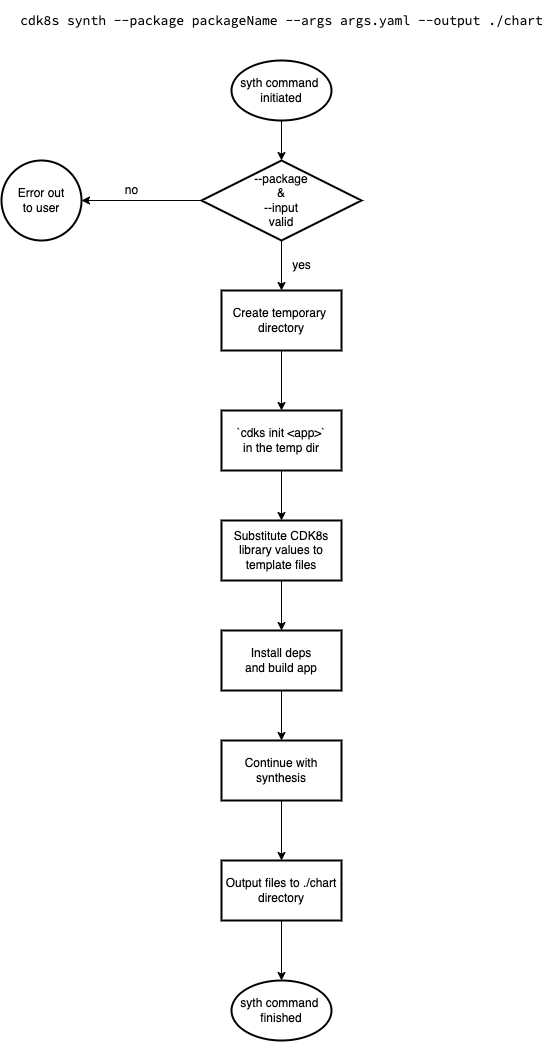
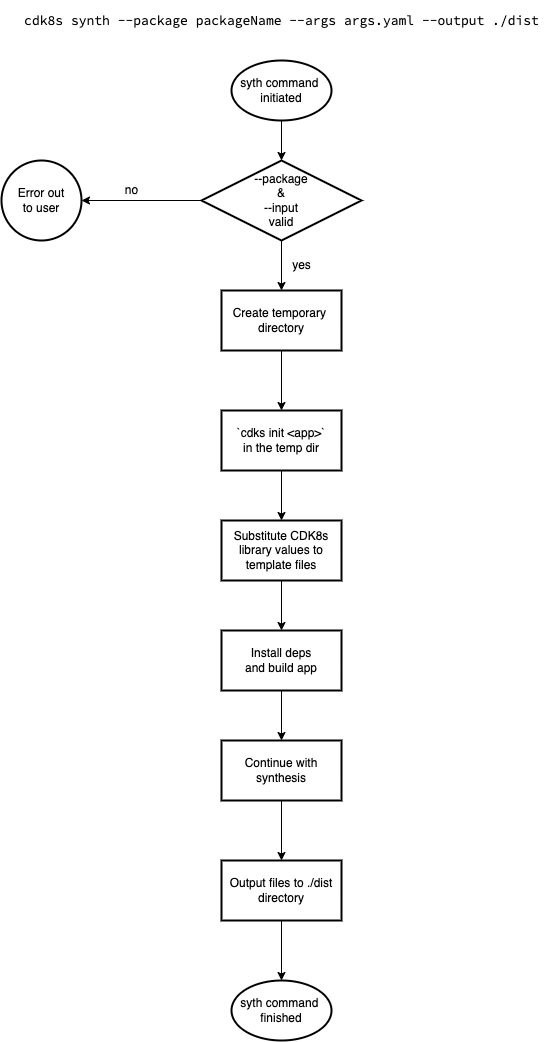
make changes

diff --git a/rfc/no-code-synthesis.md b/rfc/no-code-synthesis.md
@@ -36,7 +36,7 @@ library:
 
 Now, you can run the synthesis with,
 ```
-cdk8s synth --package https://pypi.org/project/cdk8s-jenkins/ --args args.yaml --output ./chart
+cdk8s synth --package https://pypi.org/project/cdk8s-jenkins/ --args args.yaml
 ```
 ---
 
@@ -70,7 +70,7 @@ The motivation for this change is to reduce the churn with synthesizing one-off 
 
 ### Why should we _not_ do this?
 
-There are no downside of adding these features. This would add on to the value of our product.
+There are no downside of adding this feature. This would add on to the value of our product.
 
 ### What is the technical solution (design) of this feature?
 
@@ -78,7 +78,7 @@ CDK8s CLI provides users with a `synth` command that helps with generating manif
 
 For instance, once implemented the user would be able to run,
 ```
-cdk8s synth --package packageName --args args.yaml --output ./chart
+cdk8s synth --package packageName --args args.yaml --output ./dist
 ```
 where,
 * `cdk8s synth`: Is the synth command provided by CDK8s CLI for synthesizing a CDK8s application.
@@ -107,14 +107,14 @@ _An example is worth a thousand words_. Let's go through a couple of user scenar
 > **Assumption**
 The `args.yaml` file is being authored by someone who has context regarding what values can be passed to the construct in library they want to synthesize. For instance, this can be added as guidance by CDK8s library authors for the users to be aware of how to utilize.
 
-**User runs `cdk8s synth --package packageName --args args.yaml --output ./chart`**
+**User runs `cdk8s synth --package packageName --args args.yaml --output ./dist`**
 
 ![](./images/no-code-synthesis.png)
 
 Let's consider a scenario where the user wants to utilize a CDK8s Python library that is hosted on `pypi`(a remote package registry), like, https://pypi.org/project/cdk8s-jenkins/. The command would look like,
 
 ```
-cdk8s synth --package https://pypi.org/project/cdk8s-jenkins/ --args args.yaml --output ./chart
+cdk8s synth --package https://pypi.org/project/cdk8s-jenkins/ --args args.yaml --output ./dist
 ```
 
 The user would be passing in `args.yaml` which would provide inputs for the requested library which here is `cdk8s-jenkins`. The following is how the yaml file would look like for this [construct](https://github.com/cdk8s-team/cdk8s-jenkins/blob/main/src/jenkins.ts), 
